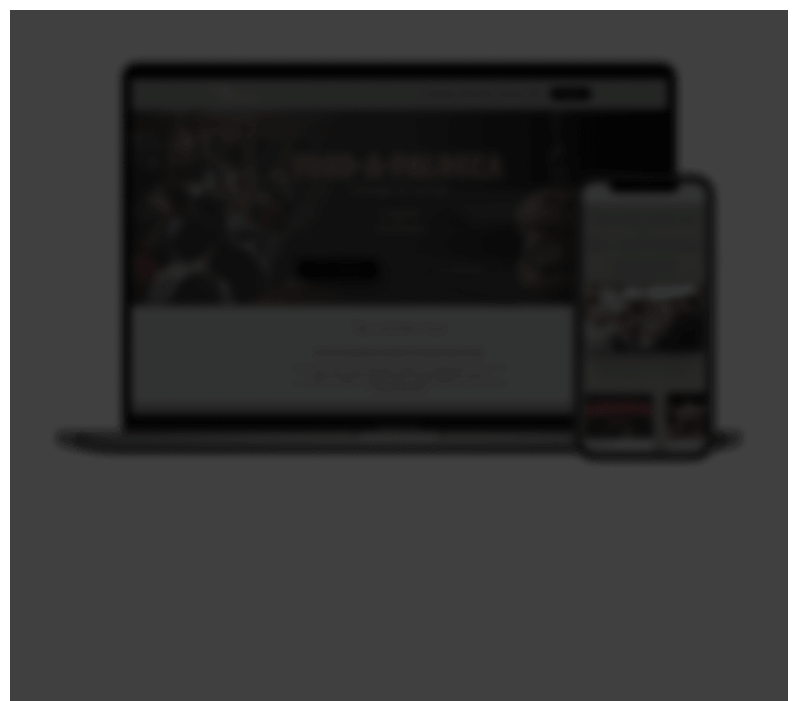
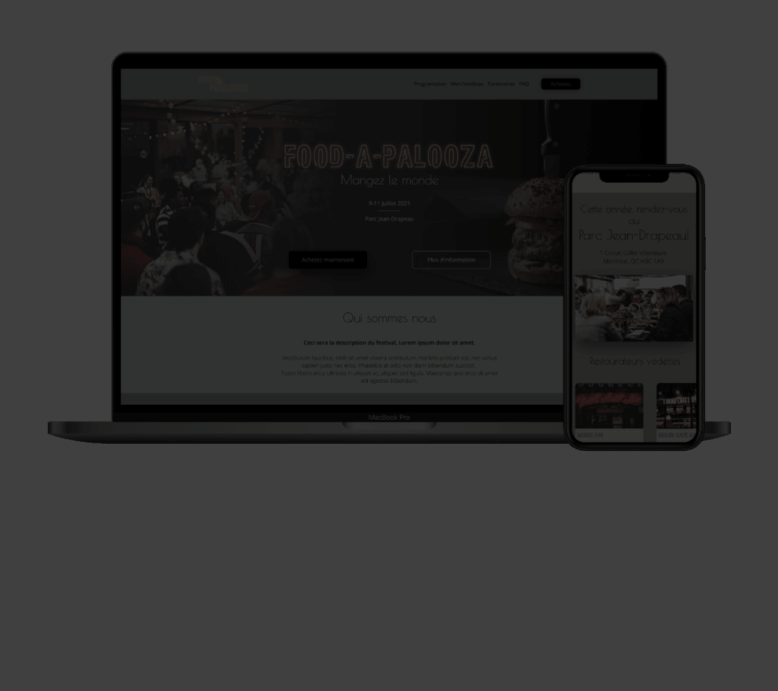
Fin page projets

diff --git a/src/projets.html b/src/projets.html
@@ -56,12 +56,120 @@
                 </div>
             </section>
             <section class="section">
-                <div class="wrapper grid">
-                    <div class="card--projet"></div>
-                    <div class="card--projet"></div>
-                    <div class="card--projet"></div>
-                    <div class="card--projet"></div>
-                    <div class="card--projet"></div>
+                <div class="wrapper grid grid--projets">
+                    <div
+                        class="card--projet card--projet-food"
+                        data-scrolly="fromLeft"
+                    >
+                        <img src="../assets/images/bg-food.png" alt="" />
+                        <a class="flex--card-projet" href="food-a-palooza.html">
+                            <h2>Food-a-palooza</h2>
+                            <p>
+                                <span class="txt--special">Design</span> et
+                                <span class="txt--special">intégration</span>
+                                d'un site <br />
+                                <span class="txt--special">web</span>
+                                événementiel
+                            </p>
+                        </a>
+                        <img
+                            class="img--voir-plus"
+                            src="assets/images/voir-plus.png"
+                            alt=""
+                        />
+                    </div>
+                    <div
+                        class="card--projet card--projet-recettes"
+                        data-scrolly="fromRight"
+                    >
+                        <img src="../assets/images/bg-recettes.png" alt="" />
+                        <a
+                            class="flex--card-projet"
+                            href="recettes-en-pots.html"
+                        >
+                            <h2>Recettes en pot</h2>
+                            <p>
+                                <span class="txt--special">Refonte</span> d'un
+                                site web <br />(<span class="txt--special"
+                                    >Design</span
+                                >
+                                seulement)
+                            </p>
+                        </a>
+                        <img
+                            class="img--voir-plus"
+                            src="assets/images/voir-plus.png"
+                            alt=""
+                        />
+                    </div>
+                    <div
+                        class="card--projet card--projet-courtier"
+                        data-scrolly="fromLeft"
+                    >
+                        <img src="../assets/images/bg-courtier.png" alt="" />
+                        <a class="flex--card-projet" href="courtier.html">
+                            <h2>
+                                Carlos Barnola <br />
+                                courtier immobilier
+                            </h2>
+                            <p>
+                                <span class="txt--special">Design</span> d'une
+                                page <span class="txt--special">web</span> pour
+                                un futur
+                                <br />
+                                courtier immobilier
+                            </p>
+                        </a>
+                        <img
+                            class="img--voir-plus"
+                            src="assets/images/voir-plus.png"
+                            alt=""
+                        />
+                    </div>
+                    <div
+                        class="card--projet card--projet-planete"
+                        data-scrolly="fromRight"
+                    >
+                        <img src="../assets/images/bg-planete.png" alt="" />
+                        <a class="flex--card-projet" href="planete.html">
+                            <h2>Notre belle planète</h2>
+                            <p>
+                                <span class="txt--special">Design</span> d'une
+                                page <span class="txt--special">web</span> pour
+                                sensibilisation <br />
+                                sur la pollution
+                            </p>
+                        </a>
+                        <img
+                            class="img--voir-plus"
+                            src="assets/images/voir-plus.png"
+                            alt=""
+                        />
+                    </div>
+                    <div
+                        class="card--projet card--projet-video"
+                        data-scrolly="fromBottom"
+                    >
+                        <img src="../assets/images/bg-video.png" alt="" />
+                        <a class="flex--card-projet" href="video.html">
+                            <h2>
+                                A la croisee <br />
+                                des chemins
+                            </h2>
+                            <p>
+                                <span class="txt--special">Video</span> relisé
+                                avec de l’<span class="txt--special"
+                                    >animation</span
+                                >
+                                2d
+                            </p>
+                        </a>
+                        <img
+                            class="img--voir-plus"
+                            src="assets/images/voir-plus.png"
+                            alt=""
+                        />
+                    </div>
                 </div>
             </section>
             <section data-component="Parallax" class="bg_anim">

diff --git a/src/styles/components/cards.scss b/src/styles/components/cards.scss
@@ -49,3 +49,124 @@
         text-align: center;
     }
 }
+.card--projet {
+    position: relative;
+    border-radius: 10px;
+    border: solid var(--color-white) 3px;
+    h2 {
+        font-size: 2.5rem;
+
+        @media screen and (min-width: $breakpoint-sm) {
+            font-size: 3.125rem;
+        }
+        @media screen and (min-width: $breakpoint-md) {
+            font-size: 4.063rem;
+        }
+    }
+    p {
+        font-size: 1.25rem;
+        text-align: center;
+        @media screen and (min-width: $breakpoint-sm) {
+            font-size: 1.563rem;
+        }
+    }
+    img {
+        border-radius: 10px;
+        display: block;
+        width: 100%;
+        filter: blur(2.5px);
+    }
+    a {
+        height: 100%;
+        position: absolute;
+        top: 0;
+        left: 0;
+        width: 100%;
+        &:hover {
+            text-decoration: none;
+        }
+    }
+    .img--voir-plus {
+        position: absolute;
+        bottom: 1%;
+        right: -7.5%;
+        filter: blur(0);
+        transform: rotate(0deg);
+        width: 25%;
+        opacity: 0;
+        transition: all 0.4s $ease-in-cubic;
+    }
+    &:hover {
+        .img--voir-plus {
+            transition: all 0.4s $ease-in-cubic;
+            transform: rotate(-45deg);
+            opacity: 1;
+        }
+    }
+}
+.card--projet-food {
+    &:hover {
+        img:not(.img--voir-plus) {
+            content: url('../assets/images/hover-food.png');
+            filter: blur(0);
+        }
+        h2 {
+            font-family: var(--font-food);
+            color: var(--color-secondary);
+            font-weight: normal;
+        }
+    }
+}
+.card--projet-recettes {
+    &:hover {
+        img:not(.img--voir-plus) {
+            content: url('../assets/images/hover-recettes.png');
+            filter: blur(0);
+        }
+        h2 {
+            font-family: var(--font-recettes);
+            color: var(--color-recettes);
+            font-weight: normal;
+        }
+    }
+}
+.card--projet-courtier {
+    &:hover {
+        img:not(.img--voir-plus) {
+            content: url('../assets/images/hover-courtier.png');
+            filter: blur(0);
+        }
+        h2 {
+            font-family: var(--font-courtier);
+            font-size: 3.75rem;
+            color: var(--color-recettes);
+            font-weight: normal;
+        }
+    }
+}
+.card--projet-planete {
+    &:hover {
+        img:not(.img--voir-plus) {
+            content: url('../assets/images/hover-planete.png');
+            filter: blur(0);
+        }
+        h2 {
+            font-family: var(--font-planet);
+            font-size: 2.5rem;
+            color: var(--color-planete);
+            font-weight: normal;
+        }
+    }
+}
+.card--projet-video {
+    &:hover {
+        img:not(.img--voir-plus) {
+            content: url('../assets/images/hover-video.png');
+            filter: blur(0);
+        }
+        h2 {
+            font-family: var(--font-video);
+            font-weight: normal;
+        }
+    }
+}

diff --git a/src/styles/components/grid.scss b/src/styles/components/grid.scss
@@ -1,0 +1,29 @@
+/* ==========================================================================
+   grid / component
+   ========================================================================== */
+
+.grid {
+    display: grid;
+}
+
+.grid--projets {
+    grid-template-columns: repeat(1, 1fr);
+    grid-gap: 20px;
+    padding: 0 20px;
+    @media screen and (min-width: $breakpoint-sm) {
+        grid-template-columns: repeat(4, 1fr);
+        grid-gap: 80px;
+        .card--projet:nth-child(odd) {
+            grid-column-start: 1;
+            grid-column-end: span 2;
+        }
+        .card--projet:nth-child(even) {
+            grid-column-start: 3;
+            grid-column-end: span 2;
+        }
+        .card--projet:last-child {
+            grid-column-start: 2;
+            grid-column-end: span 2;
+        }
+    }
+}

diff --git a/src/styles/settings/colors.scss b/src/styles/settings/colors.scss
@@ -10,15 +10,14 @@
     // Couleurs du projet
     --color-primary: var(--color-white);
     --color-secondary: #e19b19;
+    --color-recettes: #007eb2;
+    --color-courtier: #f73b3b;
+    --color-planete: #8ebf0c;
 
     --color-bg-primary: linear-gradient(
         180deg,
         rgba(0, 0, 0, 1) 0%,
         rgba(0, 49, 70, 1) 100%
-            /*180deg,
-        rgba(0, 0, 0, 1) 0%,
-        rgba(0, 49, 70, 1) 50%,
-        rgba(0, 107, 153, 1) 100%*/
     );
     --color-bg-secondary: rgba(0, 0, 0, 0.9);
 }

diff --git a/src/styles/components/flex--card-projet.scss b/src/styles/components/flex--card-projet.scss
@@ -1,0 +1,12 @@
+/* ==========================================================================
+   flex--card-projet / component
+   ========================================================================== */
+
+.flex--card-projet {
+    display: flex;
+    flex-direction: column;
+    justify-content: flex-end;
+    p {
+        margin: 0 0 25px;
+    }
+}

diff --git a/src/styles/main.scss b/src/styles/main.scss
@@ -58,6 +58,8 @@
 @import 'components/flex--competences';
 @import 'components/flex--interests';
 @import 'components/cards';
+@import 'components/grid';
+@import 'components/flex--card-projet';
 
 // UTILITIES
 // Utilitaires et classes auxiliaires avec possibilité de remplacer tout ce qui précède, par exemple masquer les éléments de la page
